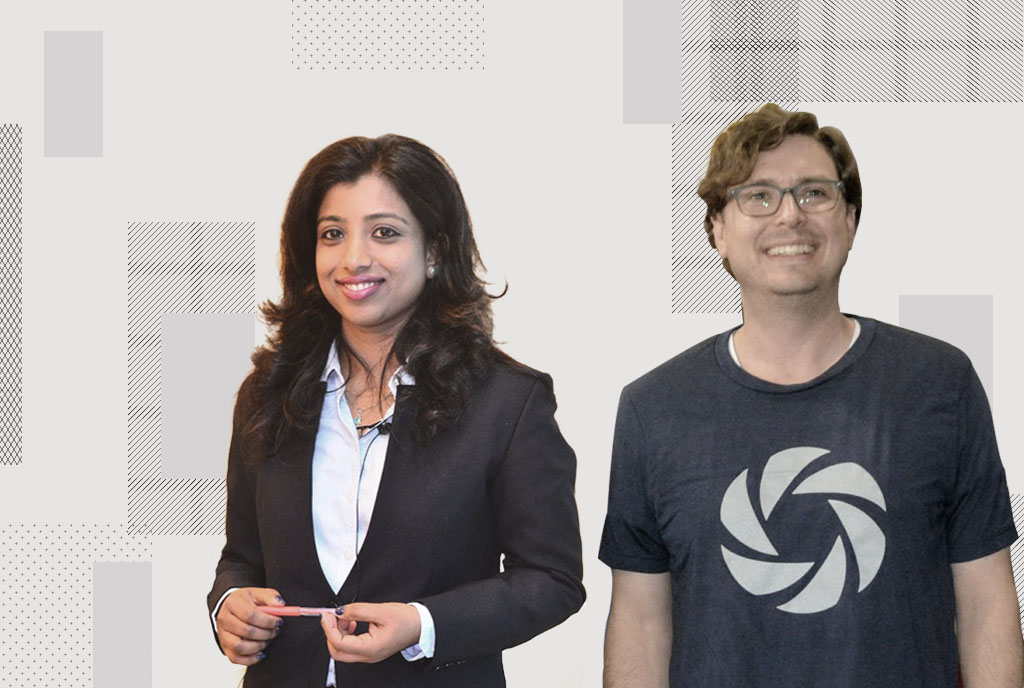
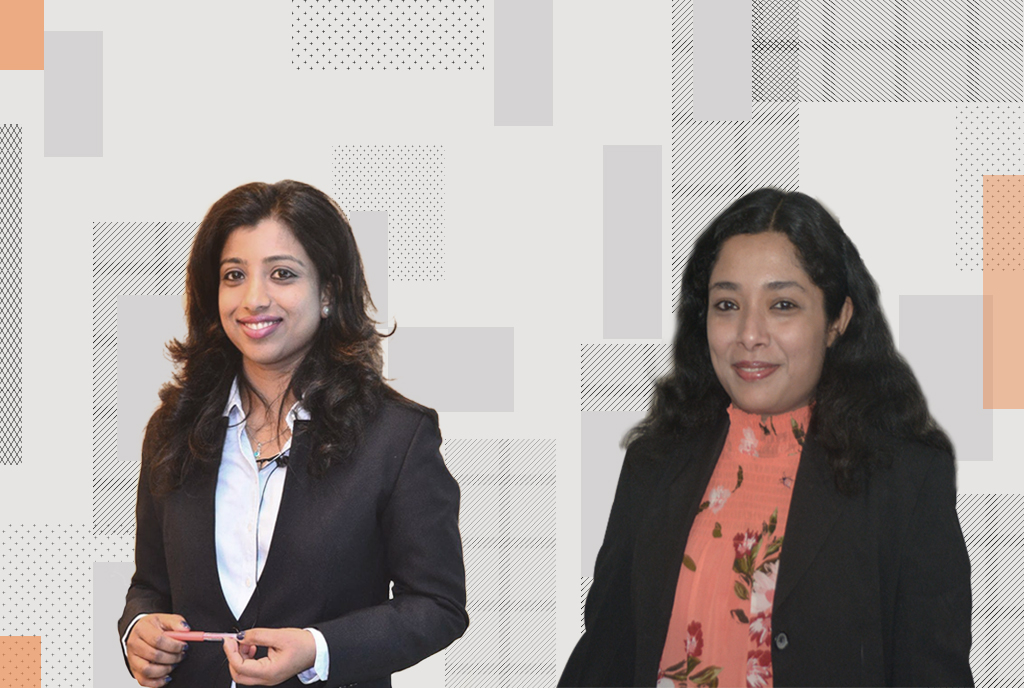
home page director image change

diff --git a/why-india.html b/why-india.html
@@ -110,7 +110,7 @@
                 <p>India is home to a vibrant startup scene, with meetups, tech conferences, and new software companies flocking to this entrepreneurial hub.</p>
             </div>
             <div class="aboutPolandBox">
-                <img src="https://www.sofomo.com/static/media/global-companies-icon.f17d4a58.svg" alt="">
+                <img src="images/global-companies-icon.svg" alt="">
                 <h2>Top Global Companies</h2>
                 <p>Top global technology companies including Google, Microsoft, Nokia, and IBM have established offices in India over the past decade to tap into India's talent pool.</p>
             </div>

diff --git a/index.html b/index.html
@@ -236,8 +236,8 @@
                         <p class="position">Director - India</p>
                     </div>
                     <div>
-                        <p class="name">Josh</p>
-                        <p class="position">Director (U.S.) - Atlanta</p>
+                        <p class="name">Sumina</p>
+                        <p class="position">Co-founder</p>
                     </div>
                 </div>
             </div>

diff --git a/js/custom.js b/js/custom.js
@@ -21,7 +21,7 @@ $(function() {
 	        
 	        
 	    });
-	    $('#menu a[href*=#]:not([href=#]), .slideToViewJobs').click(function() {
+	    $('#menu a[href*=#]:not([href=#]), .slideToViewJobs, .carrersStoryInnerWrapper a').click(function() {
 	    	// alert('home page');
 	     if (location.pathname.replace(/^\//,'') == this.pathname.replace(/^\//,'') && location.hostname == this.hostname) {
 	       var target = $(this.hash);
